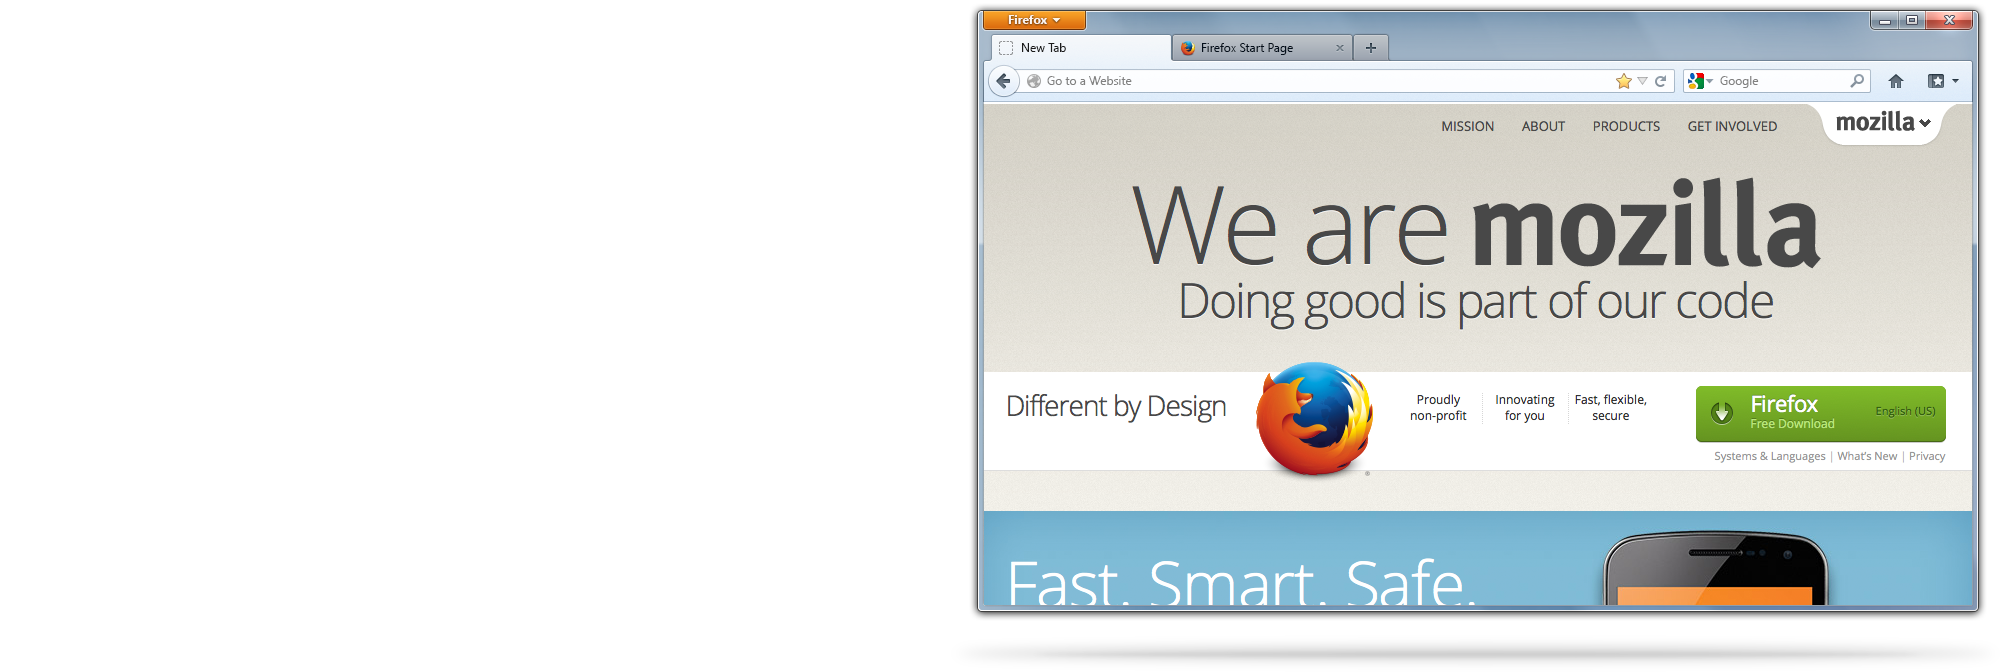
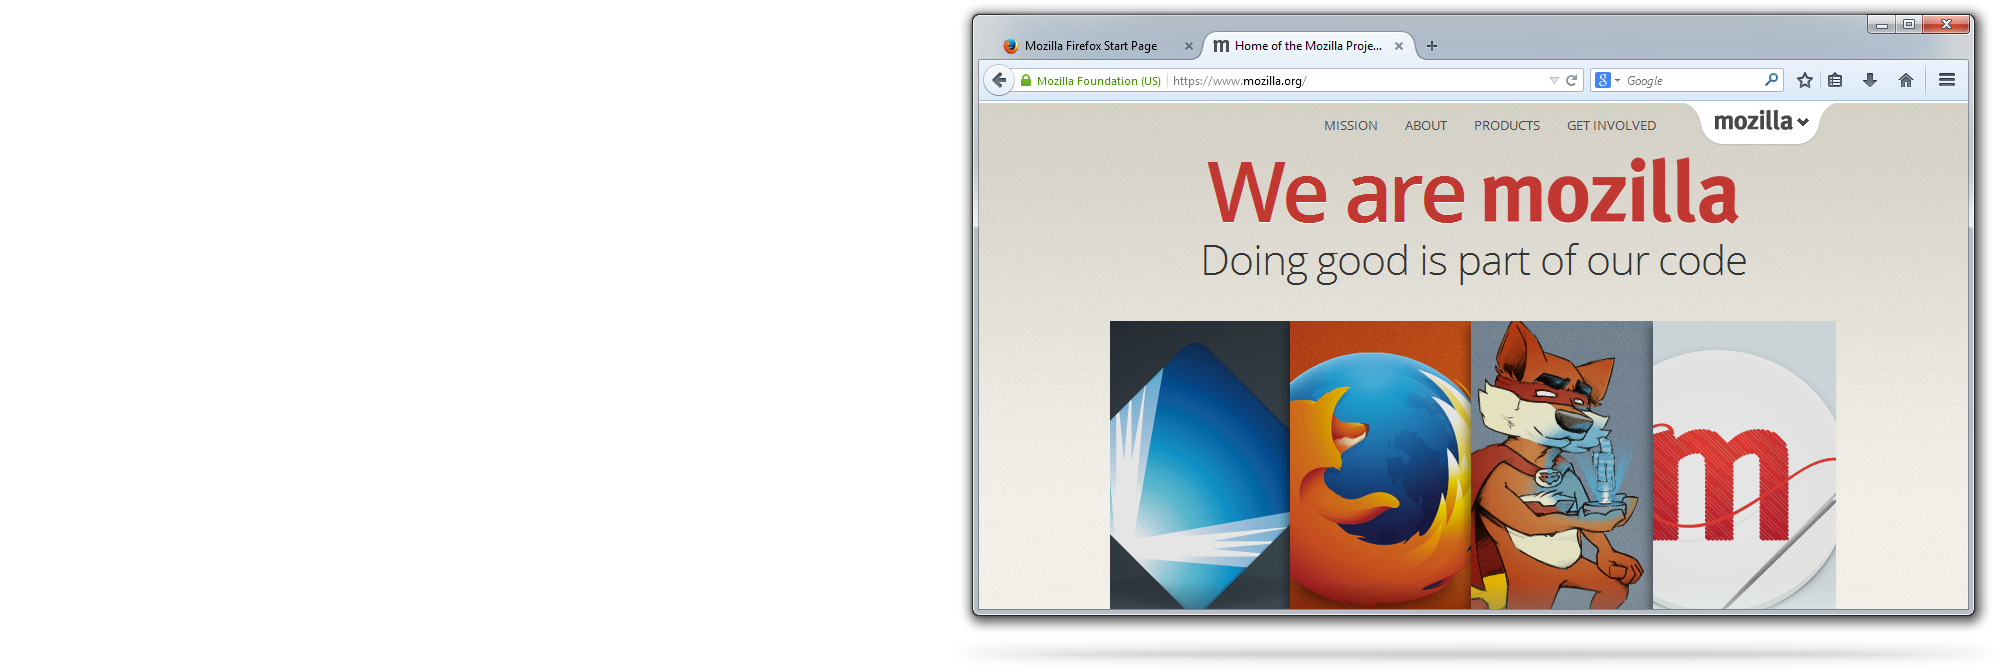
Update screenshot on styleguide front page Bug 1019566

Changed region(s): [[0.465, 0.0, 0.992, 0.9375]]

diff --git a/media/css/styleguide/styleguide.less b/media/css/styleguide/styleguide.less
@@ -403,7 +403,7 @@ body.dark {
         clear: left;
     }
     #wrapper:before {
-        background: url(/media/img/styleguide/home.png?2013-06) 50% 90px no-repeat;
+        background: url(/media/img/styleguide/home.png?2014-09) 50% 90px no-repeat;
         content:"";
         height: 800px;
         width: 100%;
